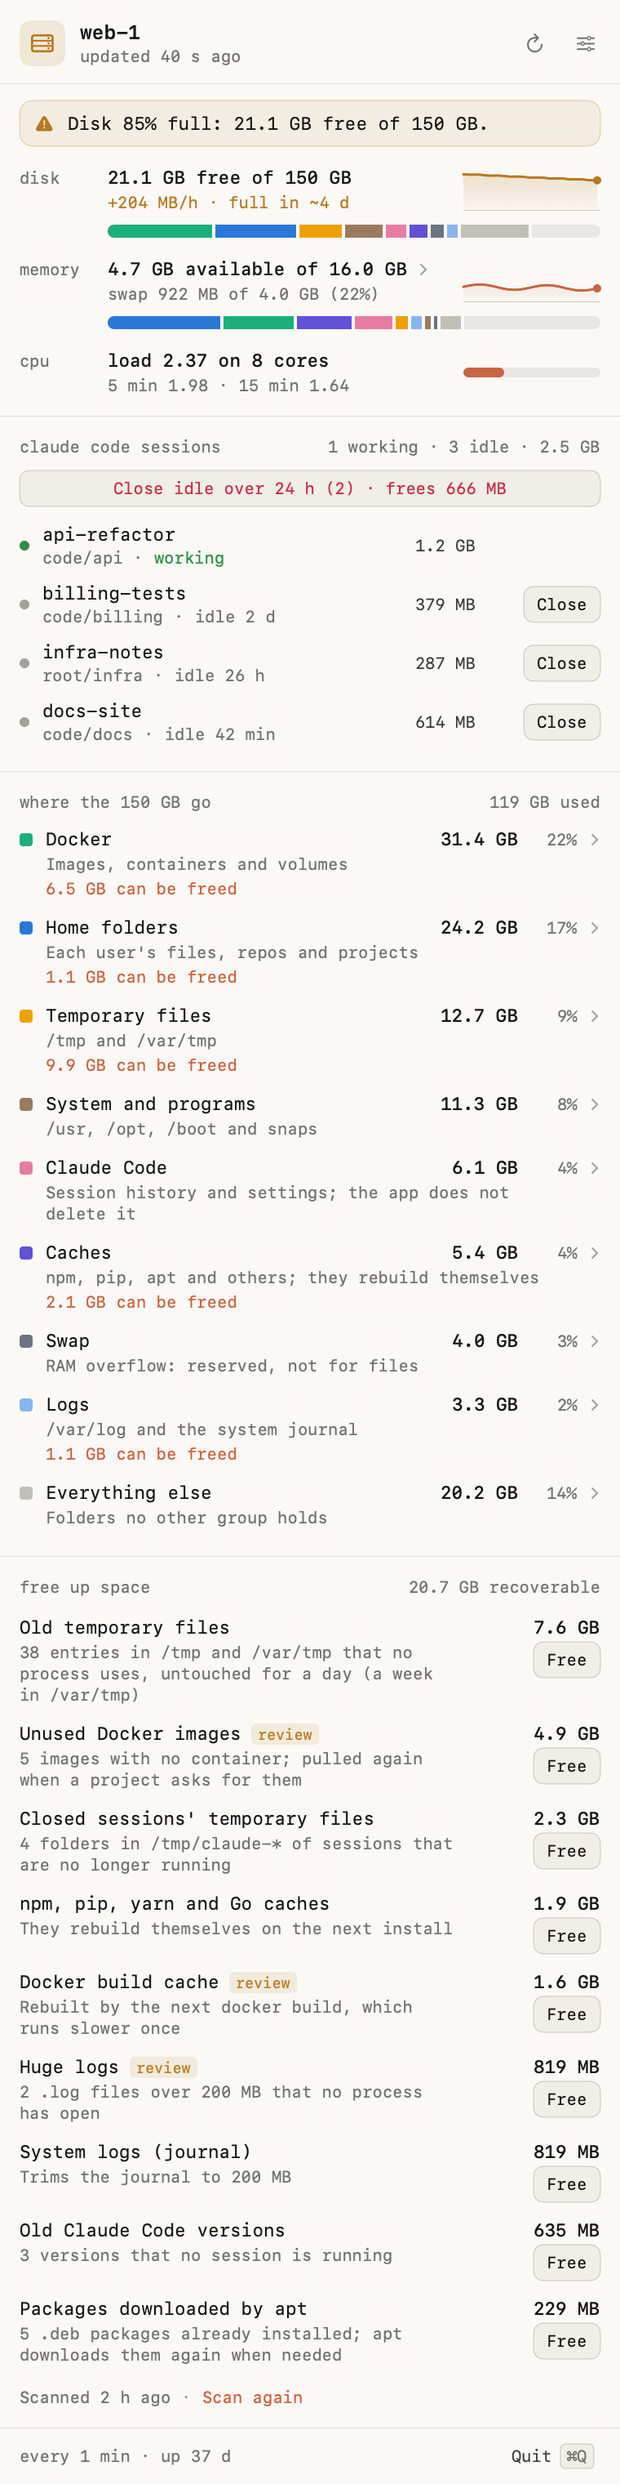
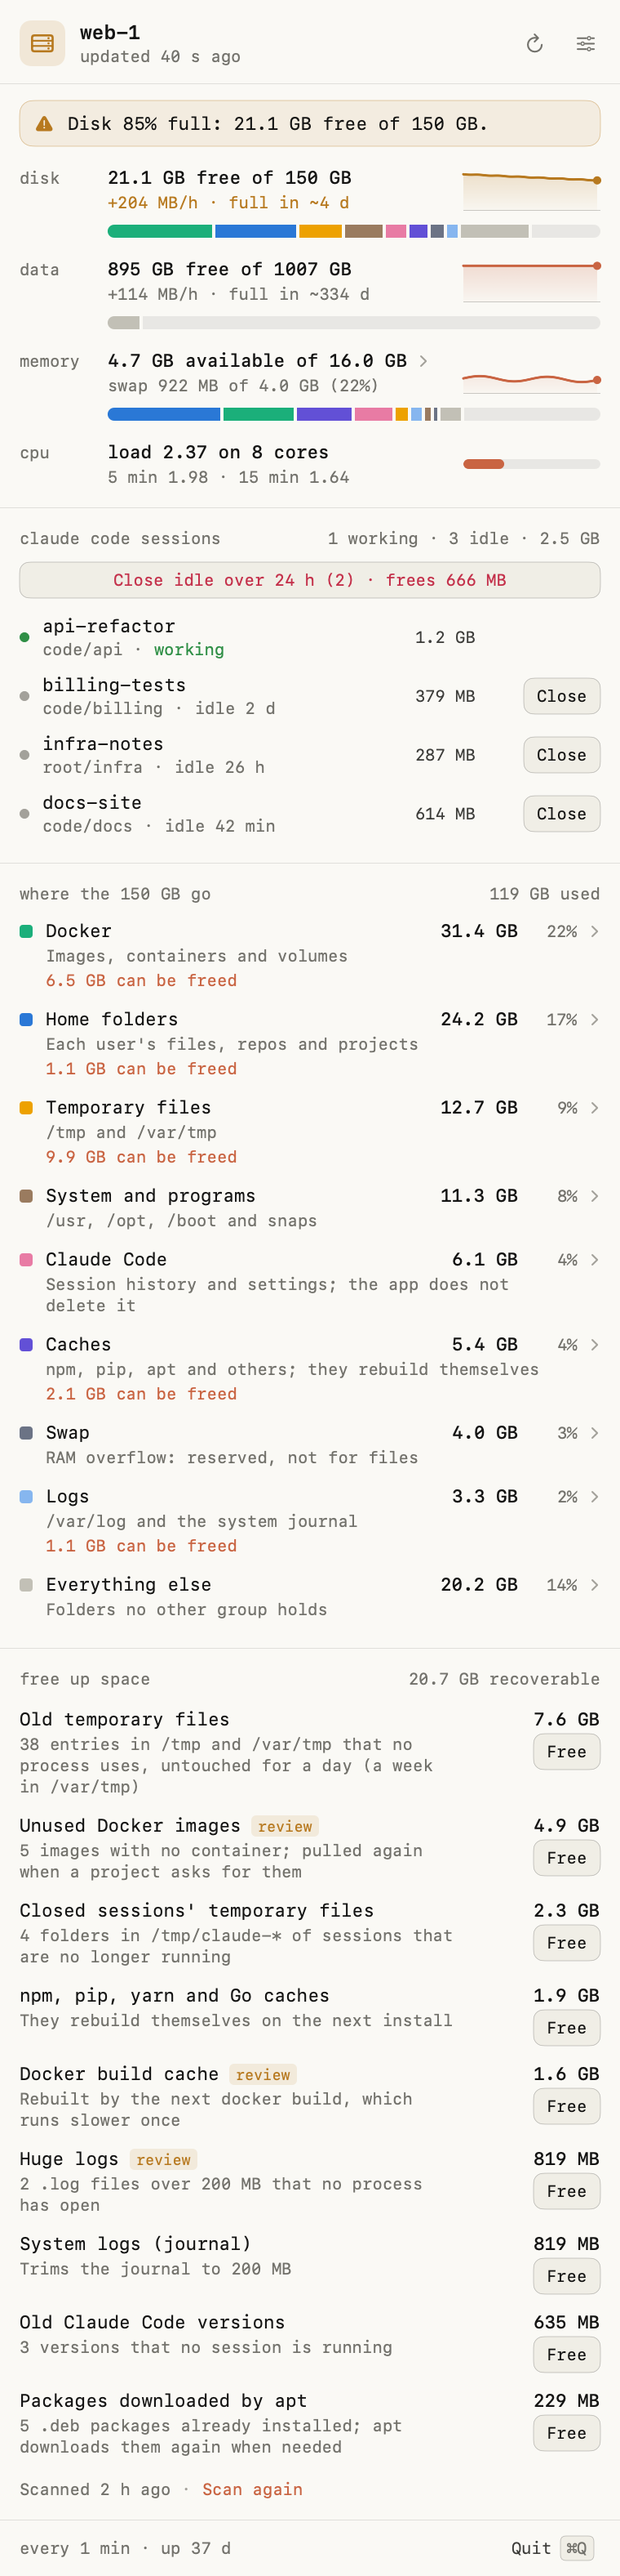
docs: describe several disks in the README, new popover screenshot

diff --git a/README.md b/README.md
@@ -13,16 +13,16 @@
 </p>
 
 <p align="center">
-  <img src="docs/images/popover.png" width="380" alt="The VPS Monitor popover for a server named web-1. A warning says the disk is 85% full. Below it are the disk, memory, and CPU rows with their charts, four Claude Code sessions, the disk split into groups such as Docker and Home folders, and a list of cleanups with Free buttons">
+  <img src="docs/images/popover.png" width="380" alt="The VPS Monitor popover for a server named web-1. A warning says the disk is 85% full. Below it are rows for the root disk and a 1 TB data volume, memory, and CPU, with their charts, four Claude Code sessions, the disk split into groups such as Docker and Home folders, and a list of cleanups with Free buttons">
 </p>
 
-VPS Monitor watches one Linux server from your Mac's menu bar. It shows the free disk and where the space goes, the RAM that each program uses, the CPU load, failed services, out-of-memory kills, and the Claude Code sessions on the server if it runs any. When the disk or the memory runs short, you free it from the same popover with one confirmed click. The app connects to the server over SSH and runs one script there, `vpsmon`, which it installs. The app is in English and Spanish.
+VPS Monitor watches one Linux server from your Mac's menu bar. It shows the free space on each disk and where the space goes, the RAM that each program uses, the CPU load, failed services, out-of-memory kills, and the Claude Code sessions on the server if it runs any. When the disk or the memory runs short, you free it from the same popover with one confirmed click. The app connects to the server over SSH and runs one script there, `vpsmon`, which it installs. The app is in English and Spanish.
 
 ## Features
 
-- The menu bar shows the worst alert, such as `Disk 92%`, with the icon in orange for a warning and in red for a critical alert.
-- The disk row shows the free space, how fast it fills, and when it will be full at that rate.
-- A disk map splits the used space into groups that add up to all of it, such as Docker, home folders, caches, logs, and temporary files. Click a group to see its biggest folders and what you can free there.
+- The menu bar shows the worst alert, such as `Disk 92%`, or `Disk data 92%` for a disk other than the root, with the icon in orange for a warning and in red for a critical alert.
+- Each disk on the server has its own row with the free space, how fast it fills, and when it will be full at that rate. The root filesystem comes first, then volumes such as `/mnt/data`, named by the last part of their path.
+- A disk map splits the used space of the root filesystem into groups that add up to all of it, such as Docker, home folders, caches, logs, and temporary files. Click a group to see its biggest folders and what you can free there.
 - Click the memory row to see the programs that use the most RAM. Click a program to see its processes.
 - Alerts cover failed systemd units, the units you choose to watch, and processes that the kernel or earlyoom killed for lack of memory.
 - The popover offers ten disk cleanups and can end a process. Each action asks first and lists what it will touch.
@@ -137,7 +137,7 @@ A listed unit that is not active raises a critical alert.
 | `/var/log/vpsmon.log` | One JSON line for each action that vpsmon applies, with the time, the user, the action, what it removed, and how much it freed. |
 | `/etc/sudoers.d/vpsmon` | With `--user`, one line: `<user> ALL=(root) NOPASSWD: /usr/local/bin/vpsmon`. |
 
-A scan measures the root filesystem with `du` and takes a few minutes. It runs at the lowest CPU and disk priority, at nice 19 and in the idle IO class. **Scan again** in the popover starts one by hand.
+A scan measures the root filesystem with `du` and takes a few minutes. The disk map and the cleanups cover the root filesystem, where most of what fills a server lives. Other disks show their free space, growth, forecast, and alerts. It runs at the lowest CPU and disk priority, at nice 19 and in the idle IO class. **Scan again** in the popover starts one by hand.
 
 To remove all of it, see [Uninstall](#uninstall).
 
@@ -188,8 +188,8 @@ The menu bar shows the label of the worst alert. The icon turns orange for a war
 
 | Alert | Warning | Critical |
 | --- | --- | --- |
-| Disk free | under 15% | under 5% |
-| Disk full | | within 24 hours, at the rate of the last 24 hours |
+| Disk free, for each disk | under 15% | under 5% |
+| Disk full, for each disk | | within 24 hours, at the rate of the last 24 hours |
 | RAM available | under 12.5% | under 6.25% |
 | Swap used | over 90% | |
 | A systemd unit | | failed, or watched and not active |
